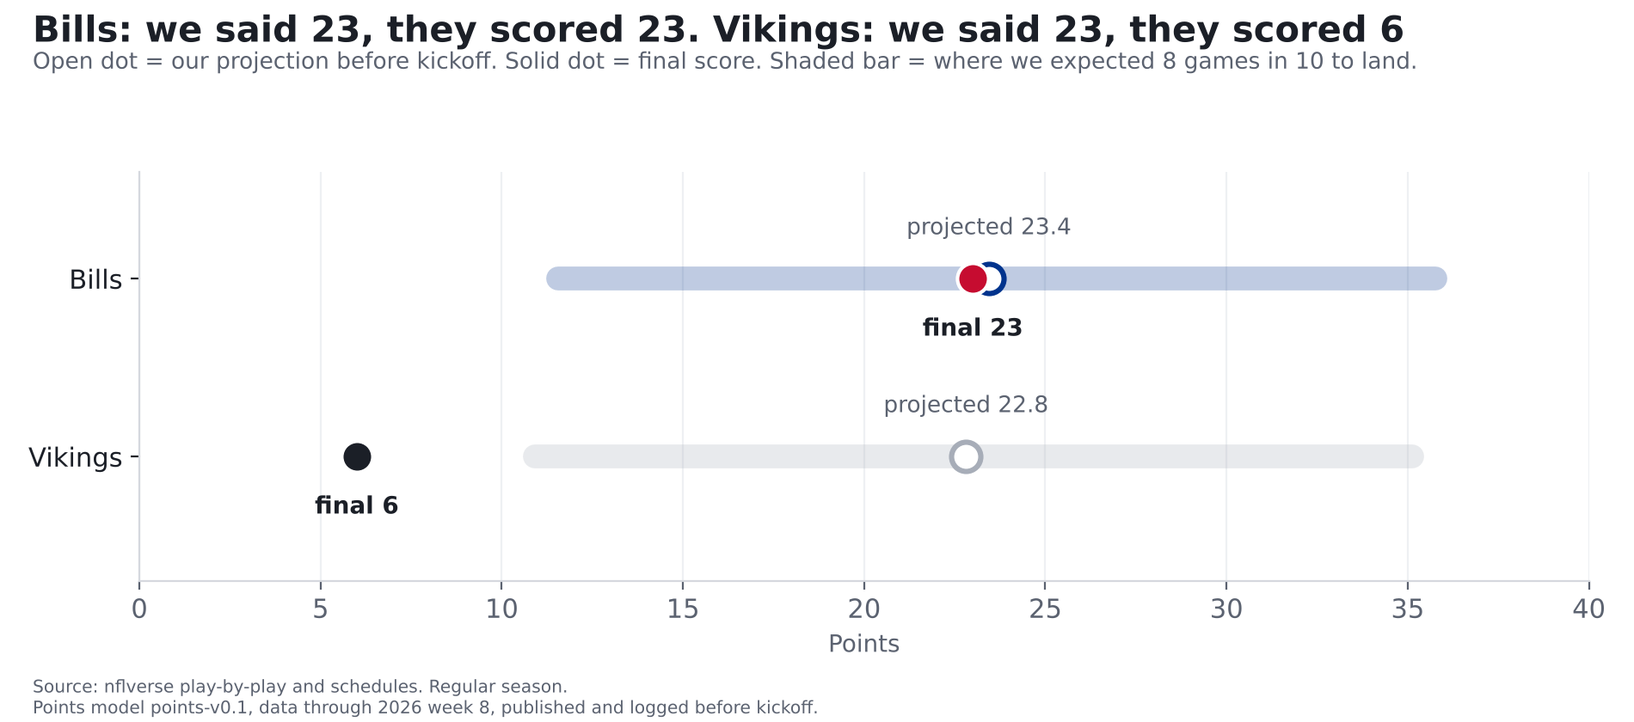
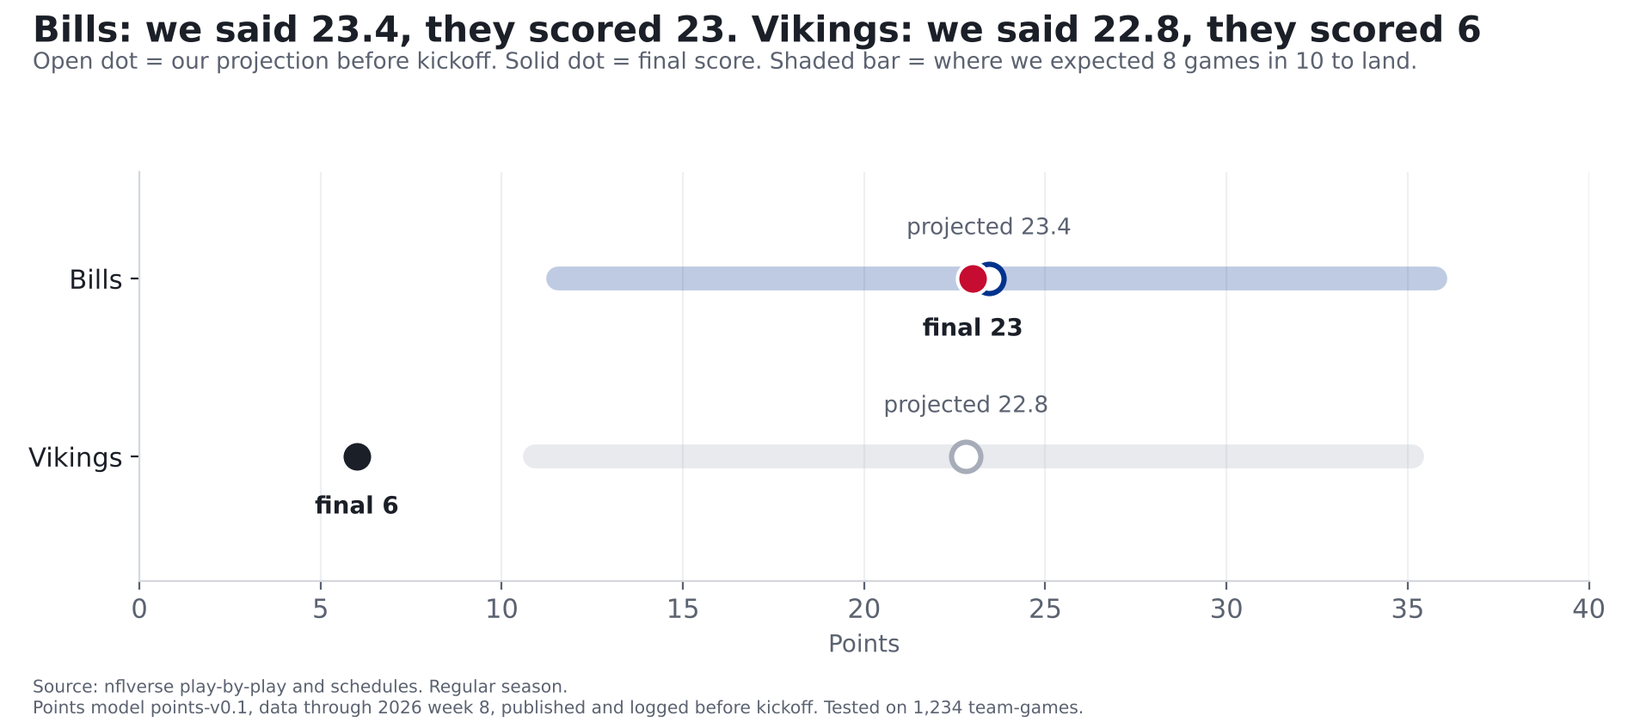
Post-game: Quant fixes
Claude-Session: https://claude.ai/code/session_01EpbAX7fMNT8LnsxAN6UoCp

Changed region(s): [[0.2174, 0.0, 0.9316, 0.0619], [0.4968, 0.9595, 0.6521, 0.9905]]

diff --git a/src/reports/wk09_postgame.py b/src/reports/wk09_postgame.py
@@ -20,6 +20,7 @@ from src.reports.defense_baseline import BLUE, GRAY, INK, MUTED, RED
 OUT = ROOT / "reports"
 SEASON, THRU, PRE_THRU = 2026, 9, 8
 GAME = "2026_09_BUF_MIN"
+WENTZ = "00-0032950"
 SLUG = "2026-wk09-postgame"
 SRC = "Source: nflverse play-by-play and schedules. Regular season."
 plt.rcParams.update({"font.family": "DejaVu Sans", "axes.spines.top": False, "axes.spines.right": False,
@@ -82,6 +83,15 @@ def main():
     d = p[p.qb_dropback == 1].copy()
     d["att"] = (d.pass_attempt == 1) & (d.sack == 0)
     d["short"] = d.att & (d.air_yards < 20)
+    qb = query(f"""SELECT COALESCE(passer_player_id, rusher_player_id) AS pid, pass_attempt, sack, complete_pass, yards_gained,
+                   interception, epa FROM raw_pbp WHERE game_id='{GAME}' AND posteam='MIN' AND qb_dropback=1 AND epa IS NOT NULL
+                   AND COALESCE(two_point_attempt,0)=0 AND COALESCE(play_type,'')<>'no_play'""")
+    qb["att"] = (qb.pass_attempt == 1) & (qb.sack == 0)
+    w = qb[qb.pid == WENTZ]
+    wz = dict(db=len(w), att=int(w.att.sum()), cmp=int(w[w.att].complete_pass.sum()), yds=int(w[w.att].yards_gained.sum()),
+              ints=int(w.interception.sum()), sacks=int(w.sack.sum()))
+    other = qb[qb.pid != WENTZ]
+    backup = name_of(other.pid.mode().iloc[0]) if len(other) else None
     q = {}
     for t in ("BUF", "MIN"):
         x = d[d.posteam == t]
@@ -101,6 +111,9 @@ def main():
     min_downs = int(((gd.posteam == "MIN") & (gd.result == "Turnover on downs")).sum())
 
     n_prior = ['zero','one','two','three','four','five','six','seven','eight'][dr[(dr.week <= PRE_THRU) & (dr.defteam == 'BUF')].game_id.nunique()]
+
+    w8 = dr[(dr.week == PRE_THRU) & (dr.defteam == 'BUF')]
+    w8_pts, w8_n = int(w8.points.sum()), len(w8)
 
     def def_rank(wk):
         x = dr[dr.week <= wk]
@@ -129,9 +142,9 @@ def main():
     ax.set_ylim(-0.7, 1.6); ax.set_xlim(0, 40)
     ax.set_xlabel("Points", fontsize=10, color=MUTED)
     ax.grid(axis="x", color="#EEF0F3"); ax.set_axisbelow(True)
-    finish(fig, f"Bills: we said {proj['BUF']:.0f}, they scored {buf}. Vikings: we said {proj['MIN']:.0f}, they scored {mn}",
+    finish(fig, f"Bills: we said {proj['BUF']:.1f}, they scored {buf}. Vikings: we said {proj['MIN']:.1f}, they scored {mn}",
            "Open dot = our projection before kickoff. Solid dot = final score. Shaded bar = where we expected 8 games in 10 to land.",
-           f"Points model {pm.VERSION}, data through 2026 week {PRE_THRU}, published and logged before kickoff.")
+           f"Points model {pm.VERSION}, data through 2026 week {PRE_THRU}, published and logged before kickoff. Tested on {len(te):,} team-games.")
     fig.savefig(OUT / "wk09d-proj-vs-final.png"); plt.close(fig)
 
     # ---- chart 2: the scorecard
@@ -149,7 +162,7 @@ def main():
     ax.grid(axis="x", color="#EEF0F3"); ax.set_axisbelow(True)
     finish(fig, f"Our seven calls: {week_hits} right, {7 - week_hits} wrong",
            "Bar = the chance we gave before kickoff. Blue = it went our way; gray = it didn't.",
-           "Every call was logged on the Ledger before kickoff and graded from the final play-by-play.")
+           f"One game, {len(p):,} plays. Every call was logged on the Ledger before kickoff and graded from the final play-by-play.")
     fig.savefig(OUT / "wk09d-scorecard.png"); plt.close(fig)
 
     def plain(team, metric, word):
@@ -169,9 +182,9 @@ def main():
     md = f"""# Bills {buf}, Vikings {mn}: we nailed Buffalo's half and missed Minnesota's
 
 **Finding: Our model projected the Bills to score {proj['BUF']:.1f} points. They scored {buf}. It projected the Vikings to score {proj['MIN']:.1f}. They
-scored {mn}, a miss that big happened only about {round(rare_test * 100)} times in 100 when we tested the model. On the Ledger, {week_hits} of our 7 calls
-were right, including the one that matters most: the Bills win. Both misses came from Minnesota's passing game, which had one of the worst nights
-of any team this season.**
+scored {mn}: in testing, teams fell that far short of our projection only about {round(rare_test * 100)} times in 100. On the Ledger, {week_hits} of our 7 calls
+were right, including the one that matters most: the Bills win. Both misses came from Minnesota's offense, mostly its passing game, which had one of the worst
+nights of any team this season.**
 
 *Bills at Vikings, Monday Night Football, Nov. 9. Our prediction ran Monday morning ([part 3](bills-vikings-prediction.html)) and every call
 was logged on the [Ledger](../ledger.html) before kickoff. Here's how they did.*
@@ -186,14 +199,15 @@ was logged on the [Ledger](../ledger.html) before kickoff. Here's how they did.*
 
 ![Scorecard](wk09d-scorecard.png)
 
-**How we grade.** A call is a hit when the side we gave more than 50% happens. We also score every call by how far our chance was from what
+**How we grade.** A call is a hit when the side we gave 50% or more happens. We also score every call by how far our chance was from what
 happened, squared, so a confident miss costs more than a timid one. Lower is better. This week's calls scored {week_brier:.2f}; guessing 50/50 on
-every one would have scored 0.25. Across all {len(allg)} calls on the Ledger so far, including last week's Sabres call, we're {all_hits} for
+every one would have scored 0.25. Across all {len(allg)} calls on the Ledger so far, including Sunday's Sabres call, we're {all_hits} for
 {len(allg)} with a score of {all_brier:.2f}. Small numbers, but that's the point of keeping the record: it adds up.
 
 **One hit we're not bragging about.** The Bills' pass plays had to gain points overall for that call to hit. Over {b_db['db']} dropbacks they gained
 {b_db['epa']:.3f} points, about as close to zero as it gets. By the rule we set before kickoff, that's a hit, the same way we'd have counted a miss
-by that margin. Fairly, it was a coin landing on its edge.
+by that margin. Fairly, it was a coin landing on its edge. The same goes for the win call in the other direction: at {mm.loc['P0002'].p:.0%}, we
+called it close to a coin flip, and a 17-point win doesn't make it a bold call after the fact.
 
 ## Buffalo: right on the number
 
@@ -207,15 +221,16 @@ for {int(ru.loc['BUF', 'yds'])} yards.
 
 ## Minnesota: what we missed
 
-Carson Wentz went {m_db['cmp']} of {m_db['att']} for {m_db['yds']} yards, threw {m_db['ints']} interceptions ({pick_txt}) and was sacked
-{m_db['sacks']} times. Minnesota's pass plays cost it about {abs(m_db['epa']):.0f} points of field position over {m_db['db']} dropbacks, the
-{min_rank}{'rd' if min_rank == 3 else 'th'}-worst passing game by any team in {len(dv)} games this season. The Vikings turned it over {to_min} times and
+Carson Wentz went {wz['cmp']} of {wz['att']} for {wz['yds']} yards, threw {wz['ints']} interceptions ({pick_txt}) and was sacked
+{wz['sacks']} {'time' if wz['sacks'] == 1 else 'times'} before {backup} took over late with the game decided. As a team, Minnesota's pass plays cost it about
+{abs(m_db['epa']):.0f} points over {m_db['db']} dropbacks: per play, the {min_rank}{'rd' if min_rank == 3 else 'th'}-worst passing game by any team in {len(dv)} games this season. The Vikings turned it over {to_min} times and
 turned it over on downs {min_downs} more, on their way to {mn} points.
 
 **The weak spot that wasn't.** Part 1 said short throws were where the Bills defense was most beatable this season. Monday, Minnesota's
-{m_db['n_short']} short throws cost it {abs(m_db['short_epa']):.0f} points. One game doesn't erase {n_prior}, but the Bills' defense closed the gap we
-pointed at, and its points allowed per drive went from {d8[1]}{'th' if d8[1] > 3 else ''} in the league to {d9[1]}{'th' if d9[1] > 3 else ''} in one night
-({d8[0]:.2f} to {d9[0]:.2f}, with the league at {d9[3]:.2f}).
+{m_db['n_short']} short throws cost it {abs(m_db['short_epa']):.0f} points. One game doesn't erase {n_prior}, and it doesn't make that weak spot go away.
+But it was the Bills' second straight strong night: they held Baltimore to {w8_pts} points on {w8_n} drives in week {PRE_THRU}, then Minnesota to {mn}
+on {int(drives.loc['MIN', 'n'])}. Their points allowed per drive went from {d8[1]}th in the league to {d9[1]}th ({d8[0]:.2f} to {d9[0]:.2f}; league {d9[3]:.2f}), though
+the middle of that list is tightly packed.
 
 **Why our Vikings calls missed.** Our model had Minnesota around {proj['MIN']:.0f} points, mostly from Kyler Murray's games and last season, with
 a typical range of {rng['MIN'][0]:.0f} to {rng['MIN'][1]:.0f}. {['Zero','Three','Six','Seven'][[0,3,6,7].index(mn)] if mn in (0,3,6,7) else mn} was below that range: in testing, only about {round(rare_test * 100)} in 100 teams fell
@@ -224,7 +239,7 @@ numbers. One game can't tell us whether that swap is wrong. It does tell us not 
 
 ## What it means
 
-- **The Bills' defense might be turning a corner, or might have met a bad night.** Its numbers jumped in one game; one game is a small sample.
+- **The Bills' defense has two strong games in a row.** Two games is still a small sample, and Minnesota's quarterback situation helped.
   We'll know more after the next two.
 - **Next:** the Bills play {nxt_txt} on {nxt_day}. Our prediction and Ledger calls come before kickoff.
 - **The record is the point.** {all_hits} of {len(allg)} so far. Every call stays up, hit or miss.
@@ -239,6 +254,9 @@ numbers. One game can't tell us whether that swap is wrong. It does tell us not 
   graded calls {all_brier:.4f} (n={len(allg)}).
 - MIN EPA per dropback ranks {min_rank} of {len(dv)} 2026 team-games (1 = worst). Short = pass attempts with air yards under 20.
 - BUF points allowed per drive, regular season through week {PRE_THRU}: {d8[0]:.3f} ({d8[1]} of {d8[2]}); through week {THRU}: {d9[0]:.3f} ({d9[1]} of {d9[2]}).
+- Minnesota's team passing numbers include {len(other)} dropbacks by {backup}. Wentz: {wz['db']} dropbacks. An aborted snap that Minnesota lost
+  counts as neither a pass play nor a designed run in these numbers.
+- Hit rule: the side given 50% or more happens (`ledger.summary`).
 - FTN charting (blitz counts) for this game wasn't published yet when we ran this, so part 2's blitz angle isn't graded here.
 """
     (OUT / f"{SLUG}.md").write_text(md)

diff --git a/reports/reviews/2026-wk09-postgame-quant.md b/reports/reviews/2026-wk09-postgame-quant.md
@@ -1,0 +1,100 @@
+# Quant review, stage 2: Week 9 post-game (Bills 23, Vikings 6)
+
+Story: reports/2026-wk09-postgame.md (generator src/reports/wk09_postgame.py, branch wk09-postgame), charts wk09d-proj-vs-final.png and wk09d-scorecard.png, hero 2026-wk09-postgame.hero.json, site dek in src/site/build.py.
+Everything below was re-derived from raw_pbp, raw_schedules, clean_drives, clean_team_week and raw_ftn using read-only SQL. I did not run grade_wk09.main() or the generator, and wrote nothing to the Ledger.
+
+## Verdict: publish with fixes
+
+All seven grades are correct, and so are the hit count, the Brier math and the season-to-date record. One factual error has to be fixed before publishing: Carson Wentz's stat line is really the whole Vikings team's passing line, and it includes the backup's garbage-time snaps. Two claims overstate what happened: "a miss that big … 3 in 100" and "closed the gap". The rest are wording fixes.
+
+## Issues, ranked
+
+### 1. MUST FIX: Wentz's line includes Max Brosmer's snaps
+Text: "Carson Wentz went 14 of 31 for 139 yards, threw 2 interceptions (Dorian Williams and Terrel Bernard) and was sacked 2 times."
+Evidence: the generator adds up every MIN dropback (`q[t]` is grouped by posteam, not by QB). By gsis id (COALESCE(passer_player_id, rusher_player_id)), the passers were:
+| QB | dropbacks | cmp/att | yds | INT | sacks (yds) | points value |
+|---|---|---|---|---|---|---|
+| C.Wentz 00-0032950 | 25 | 8/24 | 81 | 2 | 1 (-6) | -24.5 |
+| M.Brosmer 00-0040494 | 8 | 6/7 | 58 | 0 | 1 (-6) | -1.7 |
+| Team | 33 | 14/31 | 139 | 2 | 2 (-12) | -26.2 |
+Brosmer came in with 4:40 left (MIN win chance 0.4%). Wentz's only other sack (play 1308, Rousseau) was wiped out by Hamlin's defensive holding, so officially he was sacked once.
+Fix: "Carson Wentz went 8 of 24 for 81 yards, threw 2 interceptions (Dorian Williams and Terrel Bernard) and was sacked once before Max Brosmer took over with under five minutes left." The team-level "about 26 points over 33 dropbacks" can stay, but call it Minnesota's passing, not Wentz's. P0006 stays a miss under either count: the team value was -0.795 per dropback, and Wentz alone was -0.98 per dropback.
+Also suggest adding to the stat-heads section: the P0006 grade uses the team value (33 dropbacks, 8 of them Brosmer's in garbage time), which matches how the call was defined.
+
+### 2. SHOULD FIX: "a miss that big happened only about 3 times in 100" is the one-sided rate
+Text (Finding): "They scored 6, a miss that big happened only about 3 times in 100 when we tested the model."
+Evidence (MIN projection 22.81, miss -16.81):
+- Out of sample (n=1,234): falling 16.8+ points short happened 3.2%. A miss of 16.8+ in either direction happened 7.2%.
+- Training (n=2,494): 3.4% one-sided, 7.7% either direction.
+"A miss that big" reads as either direction, so it overstates the rarity by about 2x. The body is worded correctly ("fell that far short").
+Fix: "…they scored 6. Falling that far short happened only about 3 times in 100 when we tested the model."
+
+### 3. SHOULD FIX: "the Bills' defense closed the gap we pointed at" overclaims
+Evidence: Bills defense against short throws (attempts, not sacks, air yards under 20), in points per 100 throws:
+- Through week 8: +23.6, 25th of 32 (league +12.1), n=242. Opponent-adjusted gap 20.5 points, which reproduces part 1's 21.
+- Through week 9: +15.4, 19th of 32 (league +11.4), n=267. Close games: 20th. Opponent-adjusted gap 8.8 points.
+- Minnesota's 25 short throws cost -16.1. That's correct. 16 of those throws came in close-game situations (-13.1).
+The gap shrank by more than half, but the Bills are still below average on short throws. It also came against a backup QB whose offense averaged +4.6 per 100 on short throws in its other games. That explains part of the drop, and the adjusted number already accounts for it.
+Fix: "…but the Bills' defense cut the gap we pointed at by more than half in one night. Even so, it still ranks 19th of 32 on short throws."
+
+### 4. SHOULD FIX: "might be turning a corner" frames it as one game, but it's two
+Text: "Its numbers jumped in one game; one game is a small sample."
+Evidence: this is the second straight strong game. Week 8 against Baltimore allowed 10 points on 13 drives, and Monday allowed 6 on 12. The jump from 25th to 16th is real: 2.351 (25th) to 2.101 (16th), league 2.055. But teams ranked 13th through 20th sit between 1.93 and 2.23, so a small change moves the rank a lot. BUF at 2.1011 is tied with NE (2.1010) to three decimals.
+Fix: keep the hedge, but say "two straight strong games (10 points to Baltimore, 6 to Minnesota)". Also note that the 25th-to-16th move happened in a tightly bunched middle of the pack. The "corner" wording itself is hedged enough to keep.
+
+### 5. MINOR: "including last week's Sabres call"
+P0001 was logged and graded on Sunday, Nov. 8, the day before this game. Fix: "including Sunday's Sabres call".
+
+### 6. MINOR: "Both misses came from Minnesota's passing game"
+This is accurate for P0006. P0004 (Vikings 20+) is a points call. Passing was most of the damage: -26.2 on dropbacks vs. -1.6 on designed runs. But the aborted-snap fumble (play 569, -6.0) and two failed fourth downs aren't dropbacks. Safer wording for the finding and hero note: "Both misses came from Minnesota's offense, mostly its passing game."
+
+### 7. MINOR: "points of field position"
+Text: "cost it about 26 points of field position". These values also count down, distance and turnovers, not just field position. Part 3 used "gain/lose points". Fix: "cost it about 26 points" or "26 points of scoring value".
+
+### 8. MINOR: the "3rd-worst passing game" ranking
+It's correct as stated in the stat-heads (per dropback, 3 of 272 team-games, 1 = worst). But the body pairs it with the total ("26 points … the 3rd-worst"). Ranked by total, Minnesota is 2nd-worst (-26.22, behind ATL wk2's -26.56). Ranked per dropback, #1 is TB in week 8 on only 5 dropbacks. Either "2nd-worst total of any team this season" or "3rd-worst per pass play" is clean. Pick one and say which.
+
+### 9. MINOR: the hit rule text vs. code
+The story says "more than 50%". The code uses p >= 0.5. No call is at exactly 50%, so nothing changes now. Make them match.
+
+### 10. NOTE: P0006 aborted-snap play is outside both dropbacks and runs
+Play 569 was Wentz's reversed incompletion, ruled an aborted fumble that Buffalo recovered (-6.0). nflverse tags it play_type run, pass=1, qb_dropback=0, rush=0, so clean_team_week counts it as neither a dropback nor a designed run. That's consistent with the model's definition, and the grade doesn't change. It's worth one line in the stat-heads because it's one of the 3 turnovers but isn't in the 26.
+
+### 11. NOTE: Brier wording on P0002
+"Including the one that matters most: the Bills win" is a 53% call, close to a coin flip, the same as the P0005 caveat. Optional: add "at 53%, close to a coin flip" so the receipts framing stays consistent.
+
+### 12. Charts: fine, with one CLAUDE.md gap
+- proj-vs-final: the numbers match (23.44 / 22.81; 80% ranges 11.6–35.8 BUF, 10.9–35.1 MIN). The title rounds MIN to "we said 23", while the body and hero say 22.8. That's acceptable but inconsistent. Sample size is missing from the footer (CLAUDE.md requires it). Add "80% range from 2,494 training misses".
+- scorecard: the probabilities, hit/miss and colors all match the Ledger. Sample size is missing from the footer here too ("7 calls, 1 game").
+- The chart subtitle "where we expected 8 games in 10 to land" is fine.
+
+## What I verified (all match unless noted above)
+- Final score: BUF 23, MIN 6 (raw_schedules). Drive points match the scoreboard: BUF 2 TD + 3 FG = 23, MIN 2 FG = 6.
+- Projections: BUF 23.44 (raw 24.14 = 2.208 ppd × 10.93 drives), MIN 22.81. These match part 3 and the Ledger notes. "2.2 our model expected … the 11 it planned on" is correct.
+- BUF drives: 13 (23/13 = 1.77, so "about 1.8"). The 13 include two end-of-half/kneel drives. The model's drive counts are built the same way, so the comparison is consistent.
+- Grades. Every one matches clean_team_week, and also an independent raw_pbp recount (0 mismatches across all 272 2026 team-games):
+  - P0002: 23 > 6, hit, Brier 0.2209
+  - P0003: 23 ≥ 20, hit, 0.1369
+  - P0004: 6 < 20, miss, 0.3721
+  - P0005: BUF dropback +0.00293 total over 36 = +0.00008 per dropback > 0, hit, 0.1849. The 36 dropbacks are 31 attempts, 4 sacks and 1 scramble. No BUF dropback was wiped out by a penalty, and none has a null value. The result is the same under the qb_relative definition in this repo, so it holds under every repo definition. It's still a coin landing on its edge; the story says so and that's appropriate.
+  - P0006: -26.22/33 = -0.795, miss, 0.4225
+  - P0007: -3.347/39 = -0.086, hit, 0.1369
+  - P0008: -1.583/11 = -0.144, hit, 0.0361
+- Week: 5/7, Brier 1.5103/7 = 0.2158 (shown as 0.22). Season: P0001 (0.46 on BUF; BUF lost, so a hit) brings it to 6/8, Brier 1.7219/8 = 0.2152 (0.22). 50/50 baseline 0.25. Hero and site dek match.
+- Ledger timing: P0002–P0008 were created at 12:48Z Nov 9, before kickoff (20:15 ET = 01:15Z Nov 10). Graded at 03:43Z Nov 11.
+- Allen: 21/31, 234 yds, 1 TD, 1 INT (B.Murphy), sacked 4 times for 29 yds, plus 1 scramble for 5. That matches box-score convention (gross passing yards, sack yards separate). One sack-fumble (play 1609) was reversed on review, so BUF had only 1 turnover. The story doesn't mention the TD; that's fine.
+- BUF designed runs: 39 for 132 yds (4 of them Allen keepers). MIN: 11 for 51.
+- Interceptions: play 2455 by Dorian Williams (00-0038557, BUF), play 2952 by Terrel Bernard (00-0037254, BUF). Both correct.
+- MIN turnovers: 3 (2 INT + aborted-snap fumble). Turnovers on downs: 2 (drives 22 and 24; the second was Brosmer's).
+- Short throws: MIN 25 for -16.1; there are no null air-yards throws.
+- "One game doesn't erase seven": BUF defense played 7 games through week 8. Correct.
+- Defense points per drive: through week 8, 2.351 (181/77), 25th of 32, league 2.075. Through week 9, 2.101 (187/89), 16th, league 2.055. Correct.
+- 272 team-games in 2026 through week 9: schedule and play-by-play both complete (15 week-9 games).
+- Claims about earlier parts:
+  - Part 1 said short throws were the Bills' weakest area (25th). Correct.
+  - Part 3 said "best offense vs. best defense … mostly cancel out" and said the Wentz swap was the untested piece. Both correct.
+  - Part 3 said the Vikings were "around 23, mostly from Murray's games and last season", with a range of 11–35. Correct.
+  - The FTN claim is true: raw_ftn has 14 of 15 week-9 games, and BUF_MIN is missing (pulled 2026-11-10 12:14Z).
+- Rarity: P(MIN ≤ 6) from training misses is 3.4%, and the out-of-sample one-sided rate is 3.2%. See issue 2 for the two-sided rate.
+- Jargon and betting: there's no betting language. The stat-terms (EPA, Brier, residual) appear only in the stat-heads section. "Dropbacks" appears in the body but the earlier parts used it too, which is acceptable.
+- AS_OF pin: the generator pins THRU=9, and the projections use PRE_THRU=8. A later nflverse revision could still change clean_drives and play values. The P0005 margin of +0.003 is fragile to that, but the Ledger grade is already recorded.

diff --git a/reports/2026-wk09-postgame.md b/reports/2026-wk09-postgame.md
@@ -1,9 +1,9 @@
 # Bills 23, Vikings 6: we nailed Buffalo's half and missed Minnesota's
 
 **Finding: Our model projected the Bills to score 23.4 points. They scored 23. It projected the Vikings to score 22.8. They
-scored 6, a miss that big happened only about 3 times in 100 when we tested the model. On the Ledger, 5 of our 7 calls
-were right, including the one that matters most: the Bills win. Both misses came from Minnesota's passing game, which had one of the worst nights
-of any team this season.**
+scored 6: in testing, teams fell that far short of our projection only about 3 times in 100. On the Ledger, 5 of our 7 calls
+were right, including the one that matters most: the Bills win. Both misses came from Minnesota's offense, mostly its passing game, which had one of the worst
+nights of any team this season.**
 
 *Bills at Vikings, Monday Night Football, Nov. 9. Our prediction ran Monday morning ([part 3](bills-vikings-prediction.html)) and every call
 was logged on the [Ledger](../ledger.html) before kickoff. Here's how they did.*
@@ -24,14 +24,15 @@ was logged on the [Ledger](../ledger.html) before kickoff. Here's how they did.*
 
 ![Scorecard](wk09d-scorecard.png)
 
-**How we grade.** A call is a hit when the side we gave more than 50% happens. We also score every call by how far our chance was from what
+**How we grade.** A call is a hit when the side we gave 50% or more happens. We also score every call by how far our chance was from what
 happened, squared, so a confident miss costs more than a timid one. Lower is better. This week's calls scored 0.22; guessing 50/50 on
-every one would have scored 0.25. Across all 8 calls on the Ledger so far, including last week's Sabres call, we're 6 for
+every one would have scored 0.25. Across all 8 calls on the Ledger so far, including Sunday's Sabres call, we're 6 for
 8 with a score of 0.22. Small numbers, but that's the point of keeping the record: it adds up.
 
 **One hit we're not bragging about.** The Bills' pass plays had to gain points overall for that call to hit. Over 36 dropbacks they gained
 0.003 points, about as close to zero as it gets. By the rule we set before kickoff, that's a hit, the same way we'd have counted a miss
-by that margin. Fairly, it was a coin landing on its edge.
+by that margin. Fairly, it was a coin landing on its edge. The same goes for the win call in the other direction: at 53%, we
+called it close to a coin flip, and a 17-point win doesn't make it a bold call after the fact.
 
 ## Buffalo: right on the number
 
@@ -46,15 +47,16 @@ for 132 yards.
 
 ## Minnesota: what we missed
 
-Carson Wentz went 14 of 31 for 139 yards, threw 2 interceptions (Dorian Williams and Terrel Bernard) and was sacked
-2 times. Minnesota's pass plays cost it about 26 points of field position over 33 dropbacks, the
-3rd-worst passing game by any team in 272 games this season. The Vikings turned it over 3 times and
+Carson Wentz went 8 of 24 for 81 yards, threw 2 interceptions (Dorian Williams and Terrel Bernard) and was sacked
+1 time before Max Brosmer took over late with the game decided. As a team, Minnesota's pass plays cost it about
+26 points over 33 dropbacks: per play, the 3rd-worst passing game by any team in 272 games this season. The Vikings turned it over 3 times and
 turned it over on downs 2 more, on their way to 6 points.
 
 **The weak spot that wasn't.** Part 1 said short throws were where the Bills defense was most beatable this season. Monday, Minnesota's
-25 short throws cost it 16 points. One game doesn't erase seven, but the Bills' defense closed the gap we
-pointed at, and its points allowed per drive went from 25th in the league to 16th in one night
-(2.35 to 2.10, with the league at 2.05).
+25 short throws cost it 16 points. One game doesn't erase seven, and it doesn't make that weak spot go away.
+But it was the Bills' second straight strong night: they held Baltimore to 10 points on 13 drives in week 8, then Minnesota to 6
+on 12. Their points allowed per drive went from 25th in the league to 16th (2.35 to 2.10; league 2.05), though
+the middle of that list is tightly packed.
 
 **Why our Vikings calls missed.** Our model had Minnesota around 23 points, mostly from Kyler Murray's games and last season, with
 a typical range of 11 to 35. Six was below that range: in testing, only about 3 in 100 teams fell
@@ -63,7 +65,7 @@ numbers. One game can't tell us whether that swap is wrong. It does tell us not 
 
 ## What it means
 
-- **The Bills' defense might be turning a corner, or might have met a bad night.** Its numbers jumped in one game; one game is a small sample.
+- **The Bills' defense has two strong games in a row.** Two games is still a small sample, and Minnesota's quarterback situation helped.
   We'll know more after the next two.
 - **Next:** the Bills play at the Jets on Sunday, Nov. 15. Our prediction and Ledger calls come before kickoff.
 - **The record is the point.** 6 of 8 so far. Every call stays up, hit or miss.
@@ -78,4 +80,7 @@ numbers. One game can't tell us whether that swap is wrong. It does tell us not 
   graded calls 0.2152 (n=8).
 - MIN EPA per dropback ranks 3 of 272 2026 team-games (1 = worst). Short = pass attempts with air yards under 20.
 - BUF points allowed per drive, regular season through week 8: 2.351 (25 of 32); through week 9: 2.101 (16 of 32).
+- Minnesota's team passing numbers include 8 dropbacks by Max Brosmer. Wentz: 25 dropbacks. An aborted snap that Minnesota lost
+  counts as neither a pass play nor a designed run in these numbers.
+- Hit rule: the side given 50% or more happens (`ledger.summary`).
 - FTN charting (blitz counts) for this game wasn't published yet when we ran this, so part 2's blitz angle isn't graded here.
